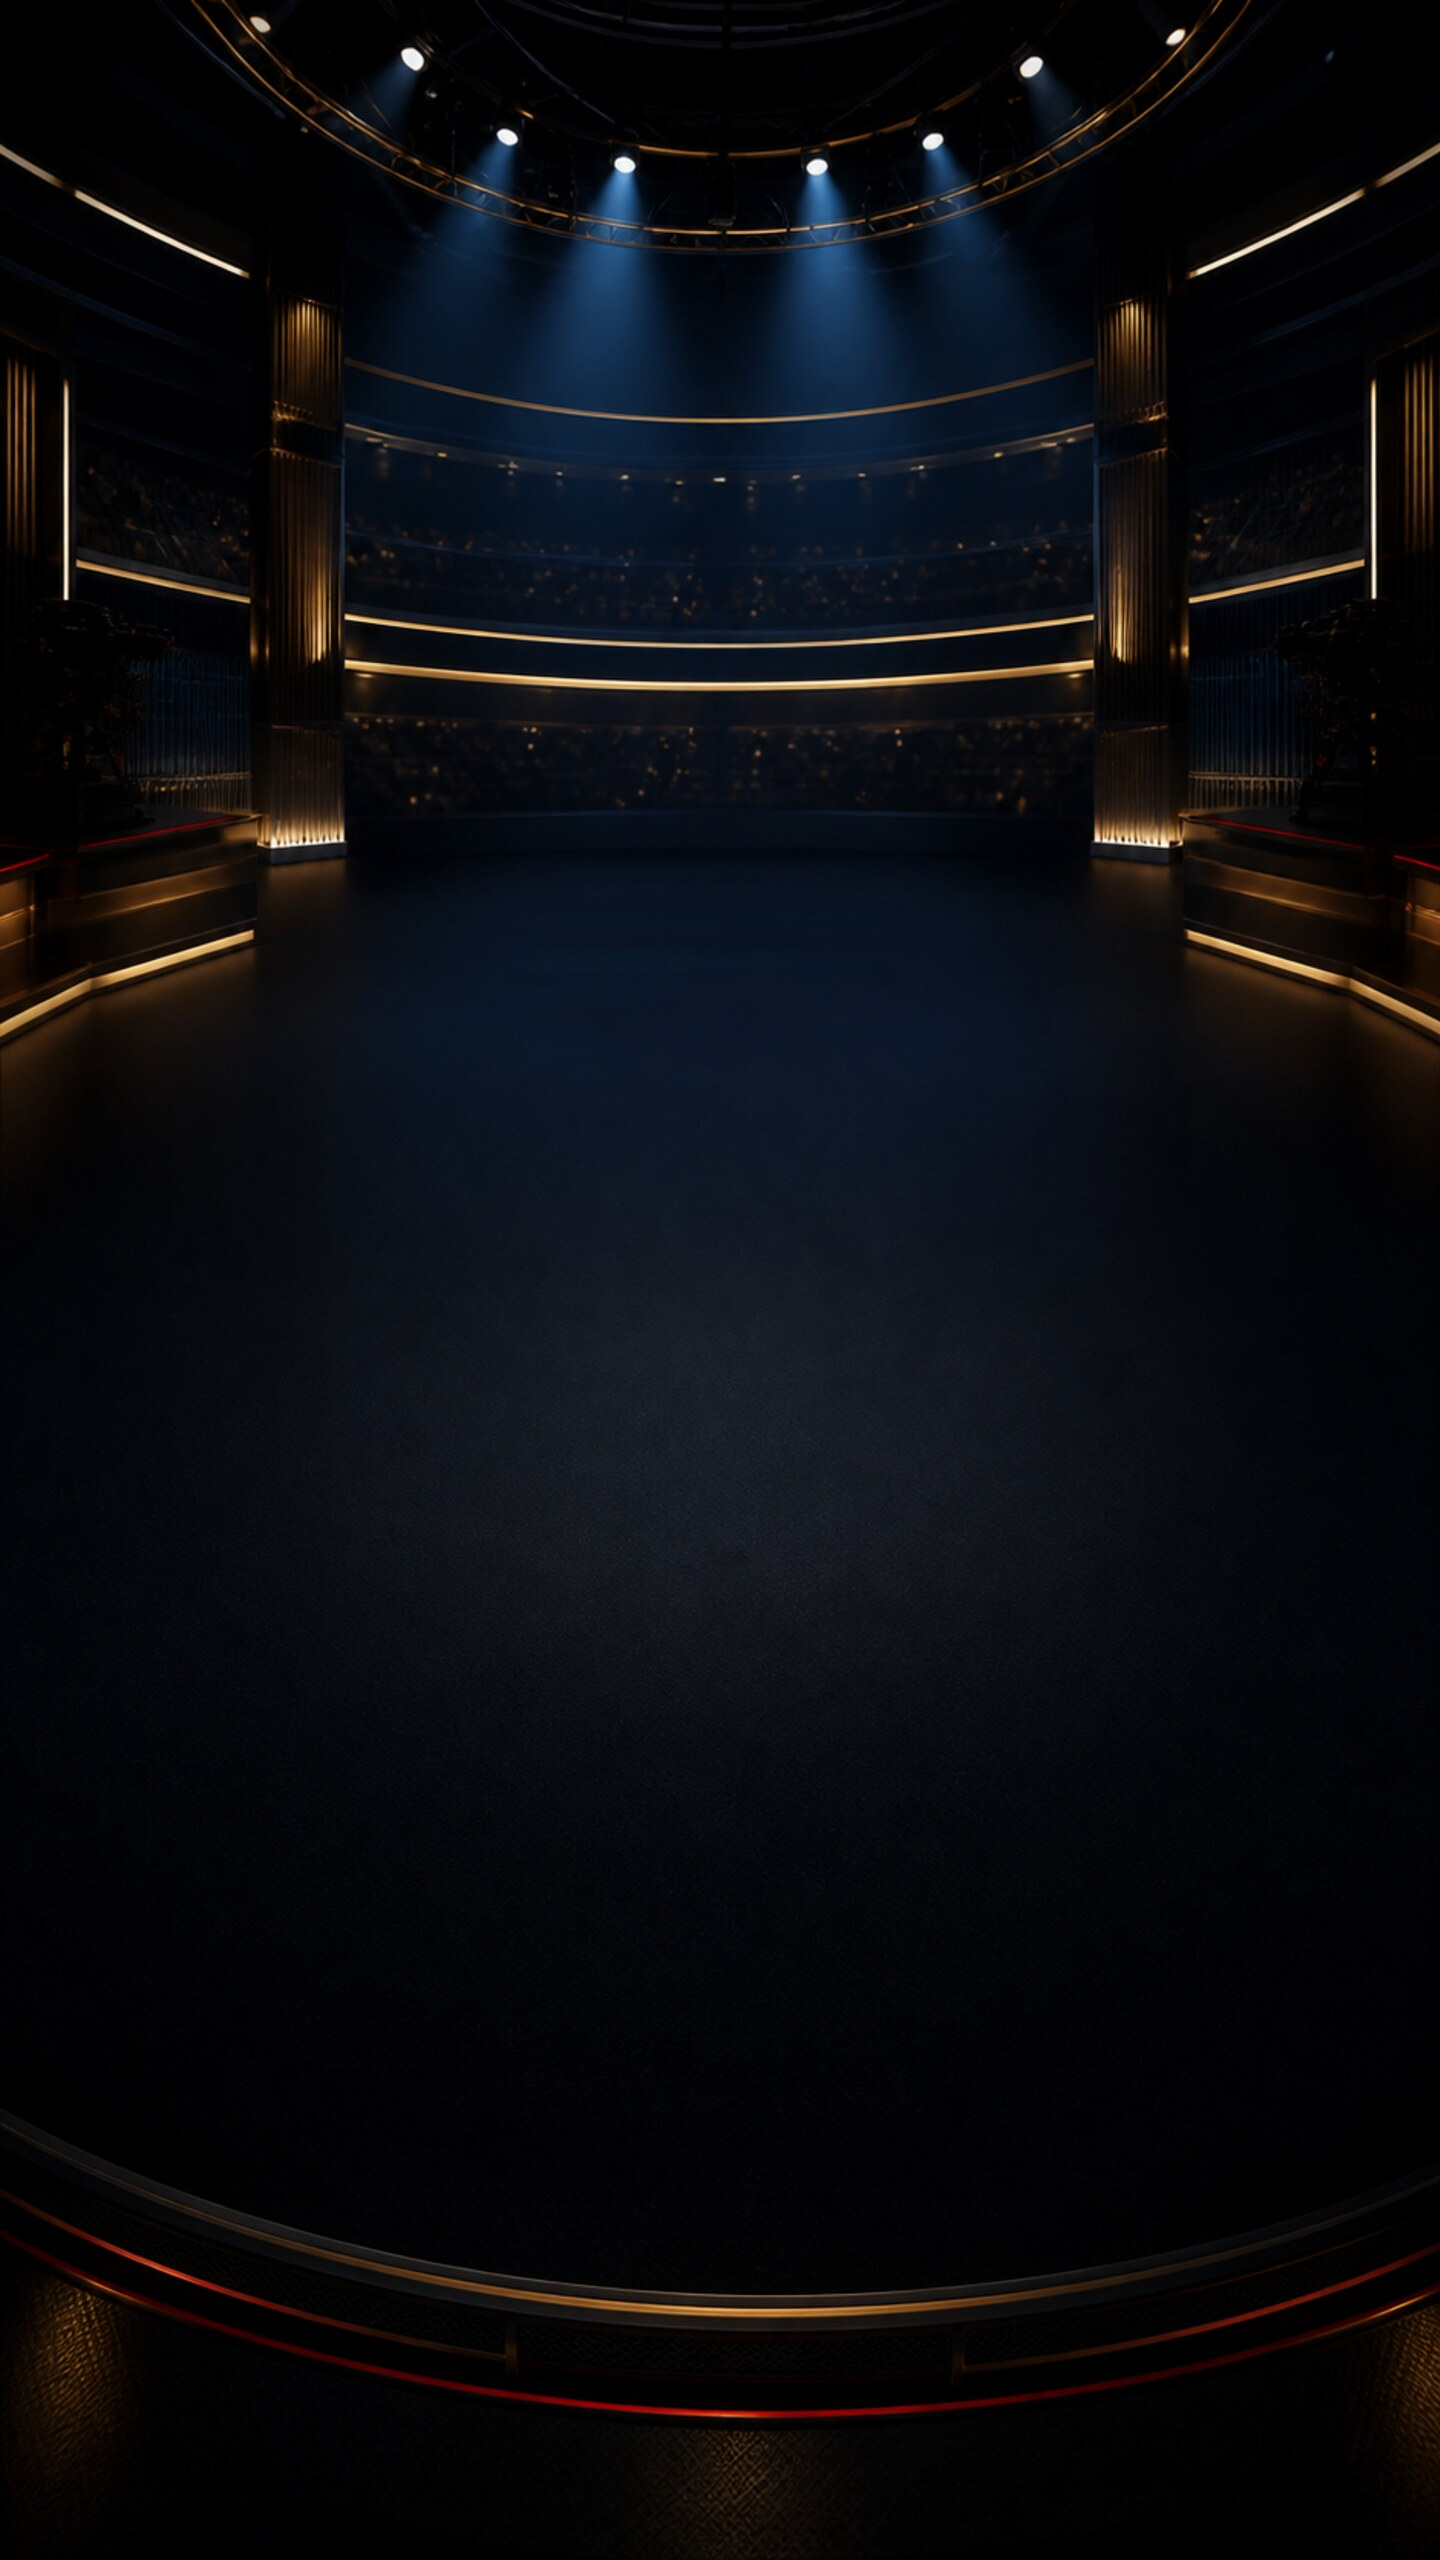
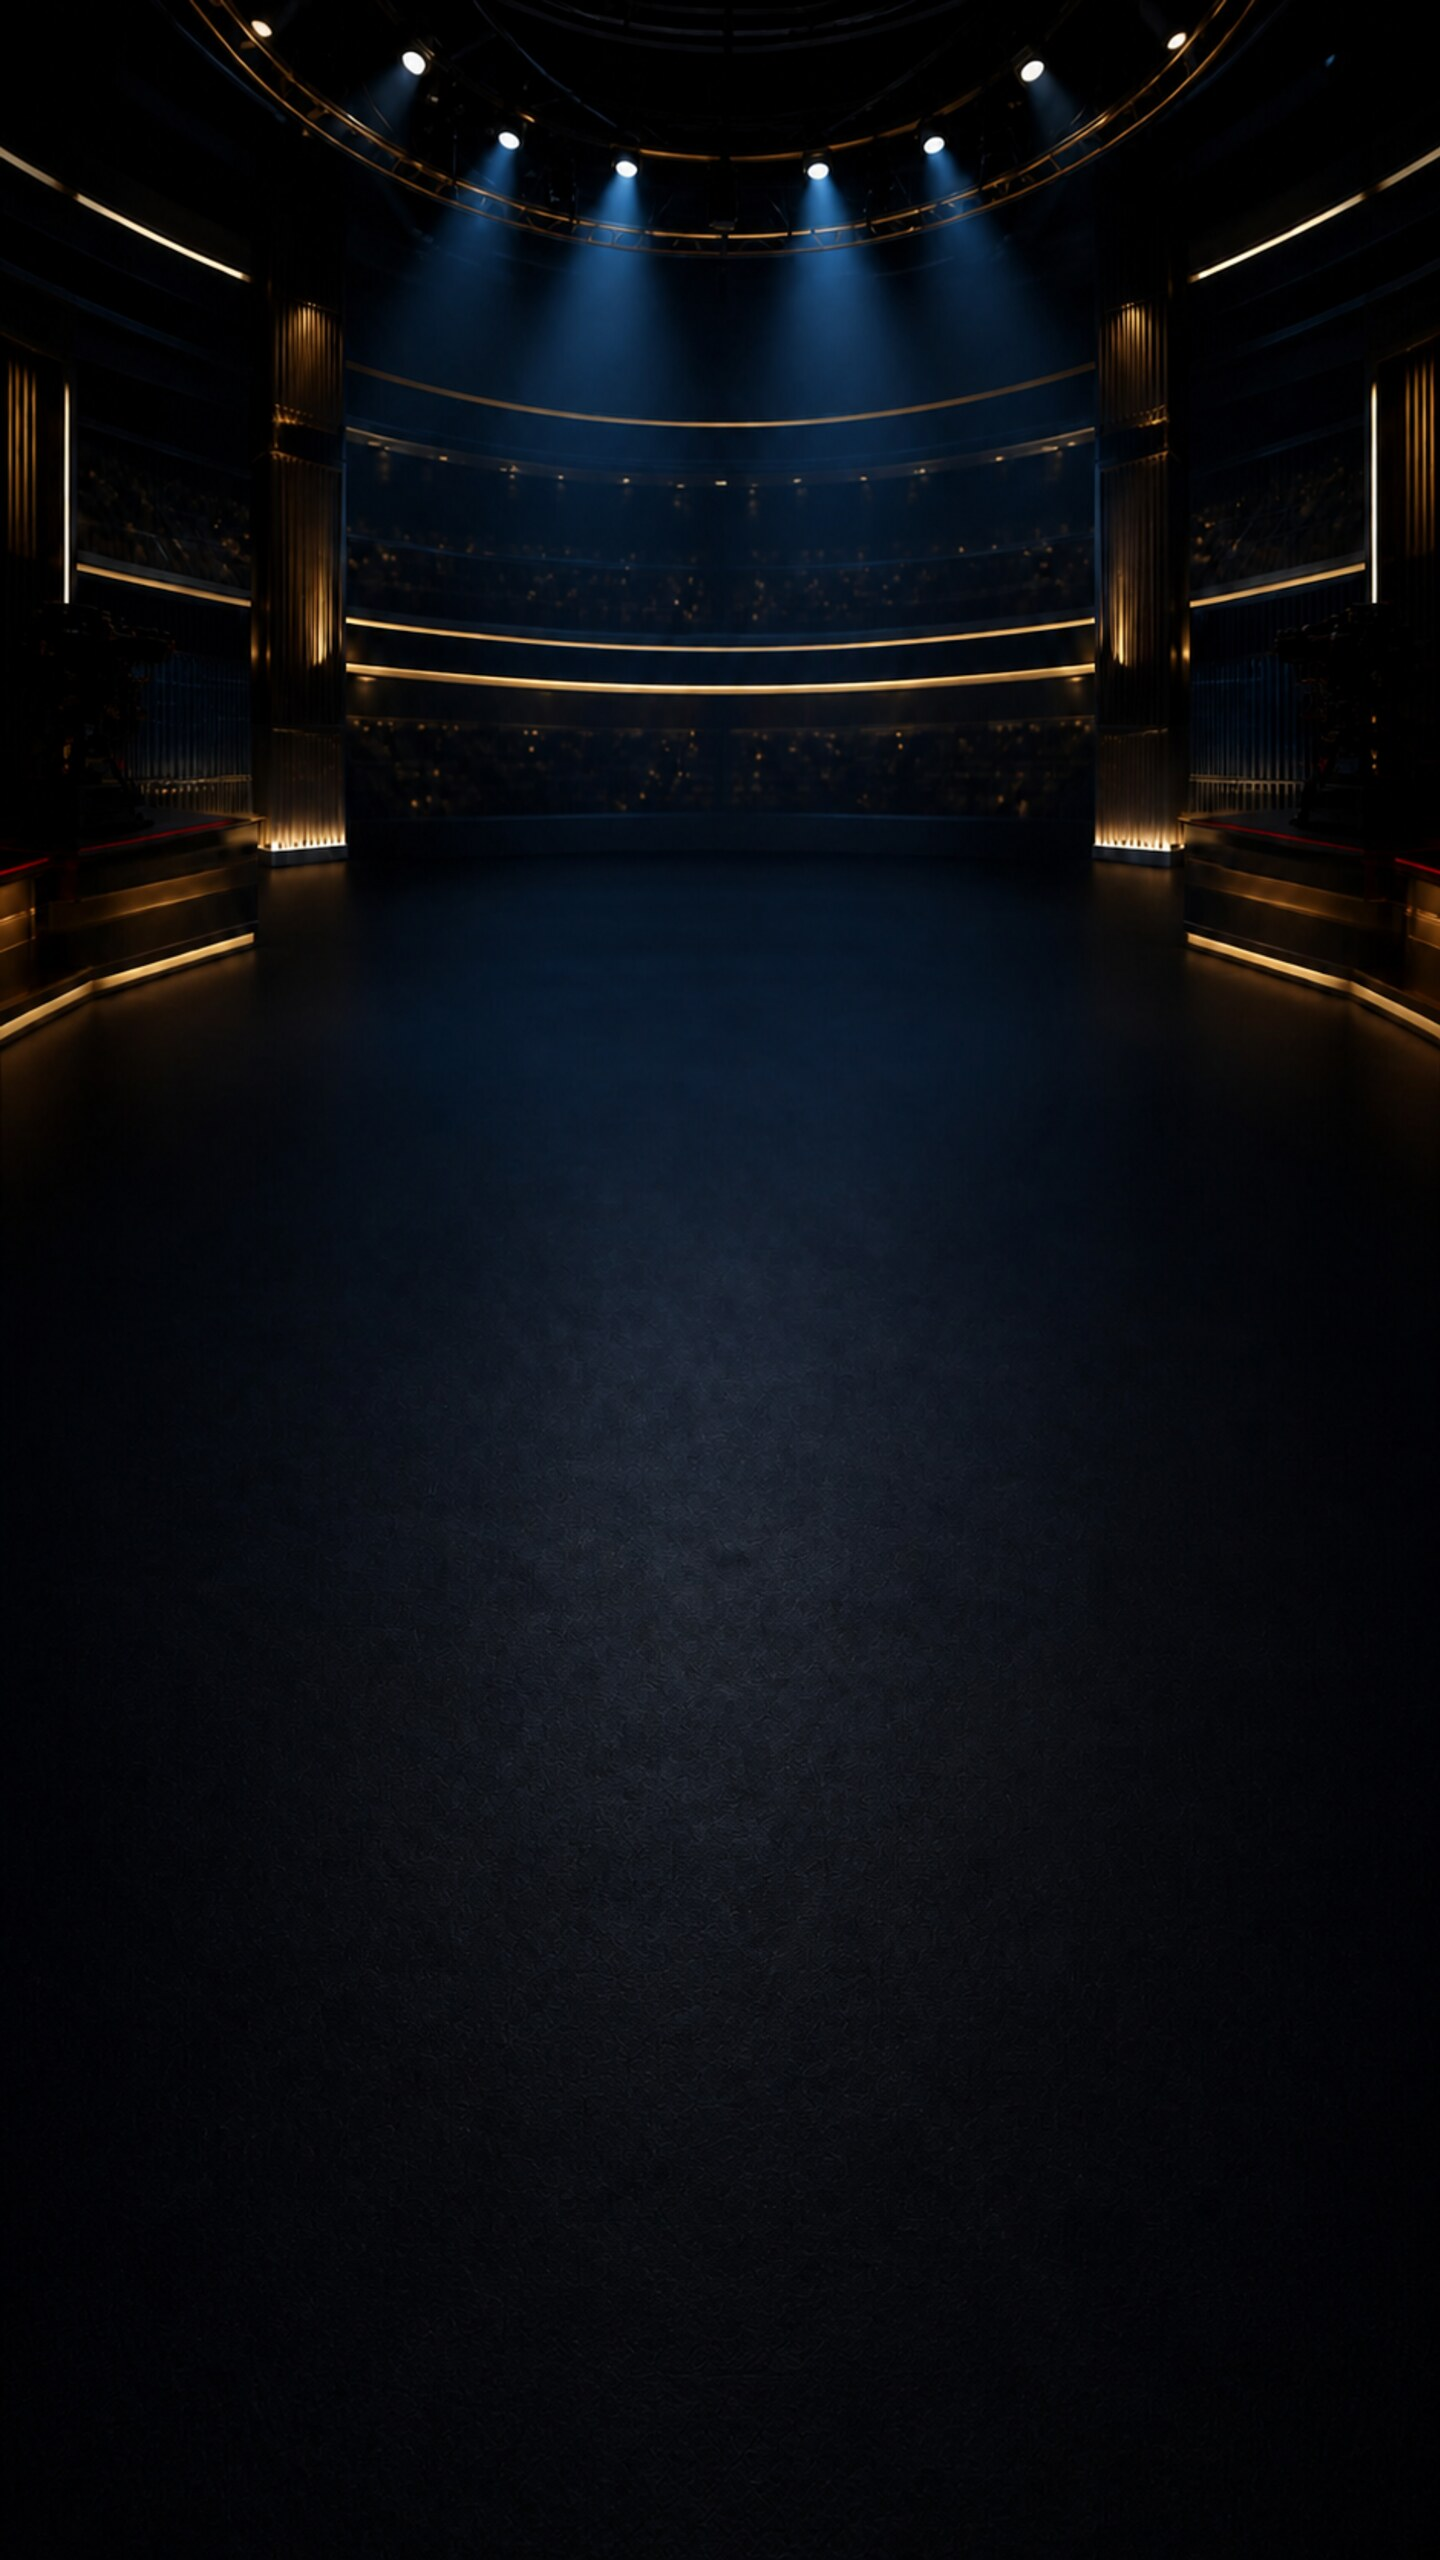
fix(cosmetics): keep one table in final table scene
Real-time law: triggered by final_table discrete WS event, no snapshot diff.

diff --git a/tests/config/premiumCustomizationSuite.test.ts b/tests/config/premiumCustomizationSuite.test.ts
@@ -26,6 +26,8 @@ describe('premium customization suite', () => {
     const selectableIds = assets.match(/TABLE_BACKGROUND_IDS: string\[\] = \[([\s\S]*?)\];/)?.[1];
     expect(selectableIds).not.toContain('final_table_broadcast');
     expect(tablePage).toContain("tableState.isFinalTable ? 'final_table_broadcast'");
+    expect(tablePage).toContain("tableState.isFinalTable\n                  ? 'final_table'");
+    expect(preview).toContain('? TABLE_SKINS.final_table');
   });
 
   it('provides mobile discovery and personal loadout controls', () => {

diff --git a/docs/changelog/2026-08-27-final-table-background-floor.md b/docs/changelog/2026-08-27-final-table-background-floor.md
@@ -1,0 +1,11 @@
+# Final Table background floor correction
+
+## What changed
+
+- Removed the curved lower-stage structure from the Final Table broadcast background because it read as a second poker table on mobile.
+- Replaced it with an uninterrupted matte studio floor so the actual Club Arena Final Table skin remains the only table in the scene.
+- Preserved the existing event-only `final_table` overlay, live seats, and avatar-library player presentation.
+
+## Mobile composition
+
+The portrait background now supplies only the premium broadcast environment. The real gameplay table continues to occupy the dominant central layer, with the arena visible around its perimeter instead of competing with it.
